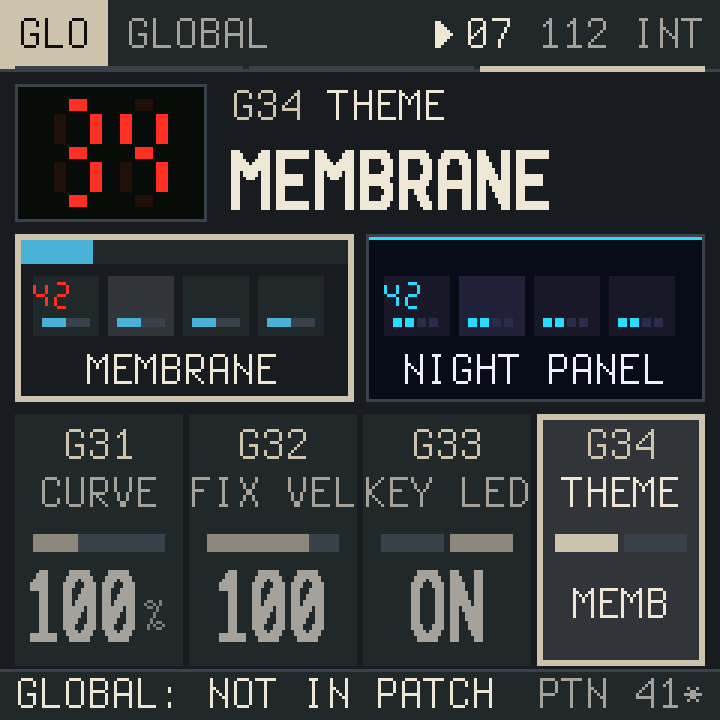
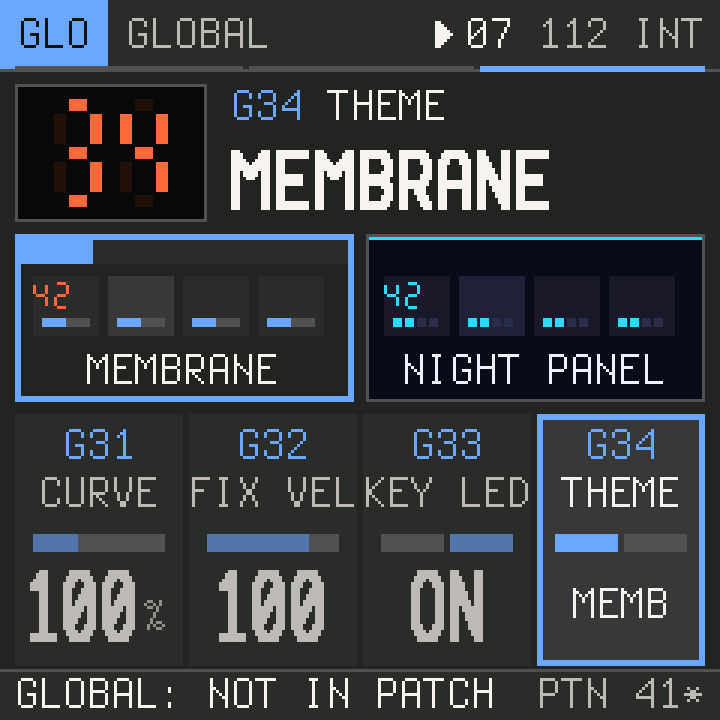
ui: Membrane in the JX-8P's and PG-800's own colors (Refs #47)
Eric: "Let's use the real colors in the membrane theme", and "not brown":
the screen is the body's neutral charcoal gray, the text the off-white
lettering, and the sections the panel buttons' colors (red COPY/WRITE,
amber KEY MODE and AFTER TOUCH, cream TONE, gray EDIT, sky blue PATCH
CHAIN/MIDI, the script's orange), white-balanced from a photo. Layout,
chip, badge and meter are as they were. Every color meets visual.md's
contrast rules; Membrane's text and dim minimums rise to 10.5 and 6.0.
visual.md, render.py and the mockups follow.

Assisted-by: Claude Code:claude-opus-5-5

diff --git a/docs/ui/mockups/render.py b/docs/ui/mockups/render.py
@@ -384,9 +384,10 @@ class Screen:
 THEMES = {
     "membrane": dict(
         name="MEMBRANE",
-        bg="#1B1D20", surface="#26292D", surface_hi="#30343A", line="#3C4148", text="#ECE6D6",
-        dim="#A6A298", ink="#121314", window="#0C0D0E",
-        led="#FF3020",              # one red for every LED window
+        # the JX-8P's and PG-800's colors: the body's neutral charcoal gray, off-white lettering
+        bg="#252525", surface="#2F2F2F", surface_hi="#383838", line="#505050", text="#F4F2EC",
+        dim="#B8B8B4", ink="#141414", window="#0A0A0A",
+        led="#FF6A3F",              # one red for every LED window (the red buttons')
         ghost=0.10,                 # unlit segments: this much of the LED color in the window
         header="chip",              # section name on a chip of its color
         meter_segments=0,           # 0: one continuous bar
@@ -394,12 +395,14 @@ THEMES = {
         focus=(1.0, 1.0),           # frames inward from the edge, as mixes of bg -> accent
         hatch=0.0,                  # fill under graph curves (0: none)
         art="badge",                # what fills the graph slot on PLAY
-        playhead="#ECE6D6", cursor="#FF3020", tie_mix=0.45,
-        black_key="#121314",        # the key strip's black keys
+        playhead="#F4F2EC", cursor="#FF6A3F", tie_mix=0.45,
+        black_key="#141414",        # the key strip's black keys
         index=0, short="MEMB",      # THEME's value: its index, and its label in a 56 px column
-        sec={"DCO-1": "#E8823A", "DCO-2": "#E8B83A", "MIX": "#C8C0A8", "VCF": "#4FB0D0", "VCF ENV": "#D86A98",
-             "VCA": "#88C860", "LFO": "#9A88E0", "CTRL": "#50C8B8", "SEQ": "#F86A6A", "GLO": "#C8C0A8",
-             "PLAY": "#ECE6D6"},
+        # the buttons: red (COPY/WRITE), amber (KEY MODE, AFTER TOUCH), cream (TONE), gray (EDIT),
+        # sky blue (PATCH CHAIN/MIDI), the script's orange
+        sec={"DCO-1": "#FF6A3F", "DCO-2": "#FFC764", "MIX": "#E8E2CC", "VCF": "#6BA7FF", "VCF ENV": "#FFB889",
+             "VCA": "#B4B4B4", "LFO": "#A8CCFF", "CTRL": "#FFD26C", "SEQ": "#FF6A3F", "GLO": "#6BA7FF",
+             "PLAY": "#F4F2EC"},
         sun=["#FFD040", "#FFB038", "#FF8C38", "#FF6848", "#F04870", "#D03890"], grid=None, horizon=None,
     ),
     "night-panel": dict(

diff --git a/firmware/ui_map.c b/firmware/ui_map.c
@@ -4,9 +4,12 @@
 
 /* visual.md: Membrane */
 const ui_theme UI_MEMBRANE = {
-    .bg = 0x18E4u, .surface = 0x2145u, .surface_hi = 0x31A7u, .line = 0x3A09u, .text = 0xEF3Au,
-    .dim = 0xA513u, .ink = 0x1082u, .window = 0x0861u, .led = 0xF984u,
-    .section = {0xEC07u, 0xEDC7u, 0xCE15u, 0x4D9Au, 0xDB53u, 0x8E4Cu, 0x9C5Cu, 0x5657u, 0xFB4Du, 0xCE15u, 0xEF3Au},
+    /* the JX-8P's and PG-800's own colors (Eric, 2026-11-14): the body's neutral charcoal gray, off-white
+     * lettering, and the buttons' red, amber, cream, gray and sky blue as the sections, white-balanced
+     * from a photo (its room light made the body look brown) */
+    .bg = 0x2124u, .surface = 0x2965u, .surface_hi = 0x39C7u, .line = 0x528Au, .text = 0xF79Du,
+    .dim = 0xBDD6u, .ink = 0x10A2u, .window = 0x0841u, .led = 0xFB47u,
+    .section = {0xFB47u, 0xFE2Cu, 0xEF19u, 0x6D3Fu, 0xFDD1u, 0xB5B6u, 0xAE7Fu, 0xFE8Du, 0xFB47u, 0x6D3Fu, 0xF79Du},
     .ghost = 26u,                       /* 10 % */
     .chip = 1u,
     .meter_segments = 0u,

diff --git a/tests/test_ui.c b/tests/test_ui.c
@@ -1719,7 +1719,7 @@ static double ui_contrast(uint16_t a, uint16_t b)
 TT_TEST(ui_themes_meet_their_contrast_rules)
 {
     static const struct { const ui_theme *t; double text, dim; } TH[2] = {
-        {&UI_MEMBRANE, 10.2, 4.9}, {&UI_NIGHT_PANEL, 13.9, 5.6},
+        {&UI_MEMBRANE, 10.5, 6.0}, {&UI_NIGHT_PANEL, 13.9, 5.6},
     };
     uint32_t n, i;
     for (n = 0; n < 2u; n++) {

diff --git a/docs/ui/visual.md b/docs/ui/visual.md
@@ -114,22 +114,22 @@ the two themes:
 
 | key | Membrane | Night Panel | what it changes |
 | --- | --- | --- | --- |
-| `bg` | `18E4` | `0863` | the screen |
-| `surface` | `2145` | `18C5` | columns, footer, cells |
-| `surface_hi` | `31A7` | `2107` | the focus column, legend chips |
-| `line` | `3A09` | `2969` | rules, frames, unlit meter |
-| `text` | `EF3A` cream | `EF7F` | values, focused labels |
-| `dim` | `A513` | `9CB7` | other labels |
-| `ink` | `1082` | `0863` | text on a chip or on the sunset |
-| `window` | `0861` | `0021` | LED and graph windows |
-| `led` | `F984` red | the section color | the 7-segment digits |
+| `bg` | `2124` charcoal | `0863` | the screen |
+| `surface` | `2965` | `18C5` | columns, footer, cells |
+| `surface_hi` | `39C7` | `2107` | the focus column, legend chips |
+| `line` | `528A` | `2969` | rules, frames, unlit meter |
+| `text` | `F79D` off-white | `EF7F` | values, focused labels |
+| `dim` | `BDD6` | `9CB7` | other labels |
+| `ink` | `10A2` | `0863` | text on a chip or on the sunset |
+| `window` | `0841` | `0021` | LED and graph windows |
+| `led` | `FB47` red | the section color | the 7-segment digits |
 | `ghost` | 10 % | 8 % | unlit segments, as this much of the LED color |
 | `header` | `chip` | `band` | the section name on a chip of its color, or in its color under a 3 px band |
 | `meter_segments`, `meter_gap` | 0, 0 (one bar) | 8, 2 (an LED ladder) | the knob meter |
 | `focus` | `(1.0, 1.0)` | `(1.0, 0.45, 0.2)` | frames inward from the focused element's edge, as mixes from `bg` to the accent: a 2 px frame, or a glow |
 | `hatch` | 0 | 16 % | the fill under graph curves |
 | `art` | `badge` | `sun` | the PLAY slot: six sunset bands with the device name, or the striped sun over a perspective grid |
-| `playhead`, `cursor` | `EF3A`, `F984` | `2EDF`, `EF7F` | the SEQ playhead and step cursor |
+| `playhead`, `cursor` | `F79D`, `FB47` | `2EDF`, `EF7F` | the SEQ playhead and step cursor |
 | `sun` | `FE88 FD87 FC67 FB49 F24E D1D2` | `FEC9 FD88 FC48 FAEC F1F2 C198` | the sunset bands (PLAY only) |
 | `grid`, `horizon` | none | `5953`, `F9FB` | the perspective grid (PLAY only) |
 
@@ -137,26 +137,31 @@ All values are RGB565, which is what `HB_RGB()` produces.
 
 ### Section colors
 
+Membrane takes the JX-8P's and PG-800's own colors (Eric, 2026-11-14): the body's neutral
+charcoal gray for the screen, off-white lettering, and the panel buttons' colors for the sections,
+named below by the button each comes from. They were white-balanced from a photo, whose room
+light made the body look brown, and lightened only as far as the contrast rules below need.
+
 | section | Membrane | Night Panel |
 | --- | --- | --- |
-| 1x DCO-1 | `EC07` orange | `FAF4` pink |
-| 2x DCO-2 | `EDC7` amber | `FC47` orange |
-| 3x MIX | `CE15` stone | `DEBE` lilac white |
-| 4x VCF | `4D9A` steel blue | `2EDF` cyan |
-| 5x VCF ENV | `DB53` rose | `FE07` amber |
-| 6x VCA | `8E4C` green | `7F8F` green |
-| 7x LFO | `9C5C` lavender | `B3FF` violet |
-| 8x CTRL | `5657` teal | `3D1F` blue |
-| SEQ | `FB4D` red | `F9FB` magenta |
-| GLO | `CE15` stone | `DEBE` lilac white |
-| PLAY | `EF3A` cream | `F9FB` magenta |
+| 1x DCO-1 | `FB47` red (COPY/WRITE) | `FAF4` pink |
+| 2x DCO-2 | `FE2C` amber (KEY MODE) | `FC47` orange |
+| 3x MIX | `EF19` cream (TONE) | `DEBE` lilac white |
+| 4x VCF | `6D3F` sky blue (PATCH CHAIN) | `2EDF` cyan |
+| 5x VCF ENV | `FDD1` orange (the script) | `FE07` amber |
+| 6x VCA | `B5B6` gray (EDIT) | `7F8F` green |
+| 7x LFO | `AE7F` pale sky blue | `B3FF` violet |
+| 8x CTRL | `FE8D` amber (AFTER TOUCH) | `3D1F` blue |
+| SEQ | `FB47` red (WRITE) | `F9FB` magenta |
+| GLO | `6D3F` sky blue (MIDI) | `DEBE` lilac white |
+| PLAY | `F79D` off-white | `F9FB` magenta |
 
 ### Contrast
 
 All ratios are WCAG ratios, computed on the quantized RGB565 values.
 
-- **Text:** at least 10.2:1 on every surface in Membrane, and 13.9:1 in Night Panel.
-- **Dim labels:** at least 4.9:1 in Membrane and 5.6:1 in Night Panel.
+- **Text:** at least 10.5:1 on every surface in Membrane, and 13.9:1 in Night Panel.
+- **Dim labels:** at least 6.0:1 in Membrane and 5.6:1 in Night Panel.
 - **Section colors:** at least 4.7:1 on `surface` and 4.9:1 on `bg`.
 
 ### Where the layouts differ, and why it stays minimal
